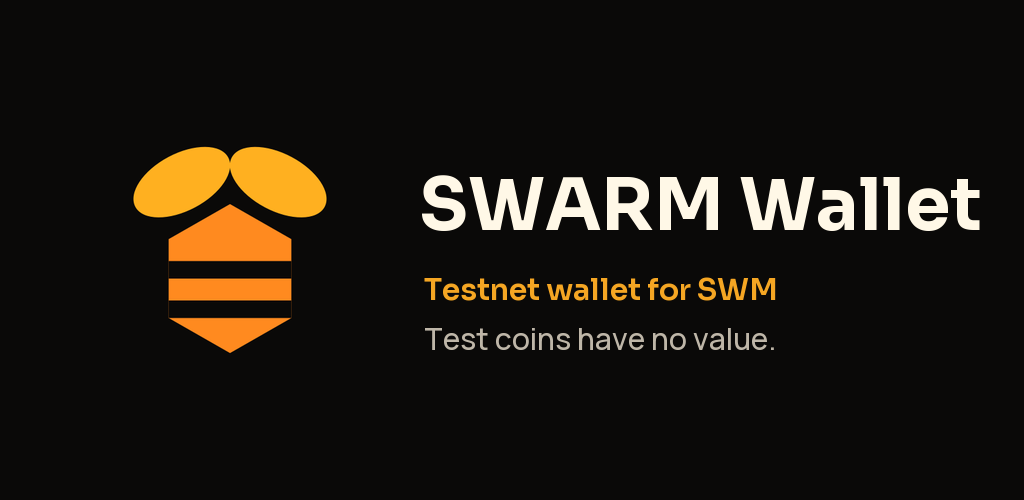
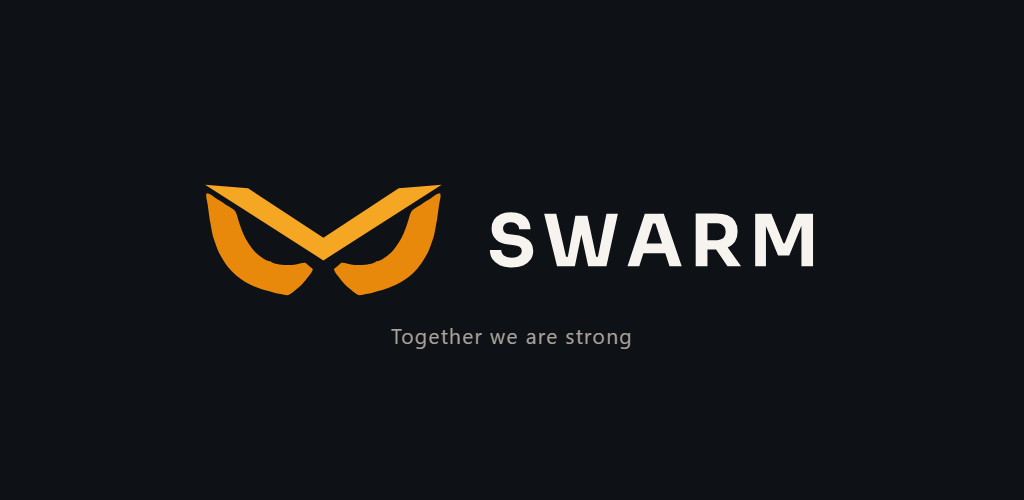
Ship the owner's mark, not the bee
The owner asked for the logo and the app icons to be updated in every wallet
app. This one still showed the hive bee in-app, and its launcher icon and its
Play artwork were the bee too.

The mark is the chevron over the hive's two eyes (owner's mark, 2026-09-22
16:44). It comes from D:/privacy/brand/swarm-mark and is installed by
scripts/brand/install_app_brand.py in the project repository:

- ios/branding/swarm-appicon.svg and ios/branding/swarm-mark.svg, the two
  vectors ios/scripts/generate-ios-art.sh renders every AppIcon PNG from in CI,
  so the iOS icons follow without a PNG being committed here.
- android/app/src/{main,beta}/res/mipmap-*/zingo_foreground.png and
  zingo_foreground_round.png, the adaptive launcher foreground, at exactly the
  sizes they had before and on the same background colour.
- assets/img/swarm-mark.svg and .png/@2x/@3x replace the bee assets, and the two
  places that named them (app/utils/ZingoAppData.ts, screens/OptionsPanel) ask
  for swarm-mark now. The options panel draws it at its own aspect — 44x21,
  where the 32x32 square was the bee's shape.
- fastlane/metadata/android/*/images/icon.png and featureGraphic.png, which are
  what Play shows beside the name.

The snapshots that recorded the old asset path were updated with it.

Checked: npx jest __tests__ --ci 88 suites, 627 tests, 95 snapshots, all pass;
node scripts/check_no_upstream_branding.mjs --sources ok.

Changed region(s): [[0.125, 0.27, 0.9688, 0.6], [0.375, 0.66, 0.75, 0.72], [0.1562, 0.63, 0.2812, 0.72]]

diff --git a/screens/OptionsPanel/OptionsPanel.tsx b/screens/OptionsPanel/OptionsPanel.tsx
@@ -19,7 +19,7 @@ import XSocial from '../../assets/img/options/x.svg';
 import Github from '../../assets/img/options/github.svg';
 import Mail from '../../assets/img/options/mail.svg';
 import Refresh from '../../assets/img/options/refresh.svg';
-import SwarmBee from '../../assets/img/swarm-bee.svg';
+import SwarmMark from '../../assets/img/swarm-mark.svg';
 
 export type OptionsPanelAction = {
   /** Unique key for the action (typically a MenuItemEnum value). */
@@ -267,13 +267,14 @@ const OptionsPanel: React.FC<OptionsPanelProps> = ({
               alignItems: 'center',
             }}
           >
-            {/* The SWARM hive-bee, drawn rather than rasterised so it stays
-                sharp at any density. Its stripes are painted in the canvas
-                colour, which is what the design system means by "stripes
-                always take the background colour". */}
-            <SwarmBee
-              width={32}
-              height={32}
+            {/* The SWARM mark: the amber chevron over the hive's two eyes
+                (owner's mark of 2026-09-22), the same vector the app icons are
+                cut from. Drawn rather than rasterised, so it stays sharp at any
+                density; it carries its own two colours, and the earlier note
+                here about stripes taking the canvas colour went with the bee. */}
+            <SwarmMark
+              width={44}
+              height={21}
               style={{ marginRight: 12 }}
             />
             <Pressable

diff --git a/app/utils/ZingoAppData.ts b/app/utils/ZingoAppData.ts
@@ -61,7 +61,7 @@ export function getZingoName(): string {
  * differ by name; one mark serves both, and there is no comparison left to go
  * stale.
  */
-const SWARM_MARK = require('../../assets/img/swarm-bee.png');
+const SWARM_MARK = require('../../assets/img/swarm-mark.png');
 
 export function getSwarmMark() {
   return SWARM_MARK;
